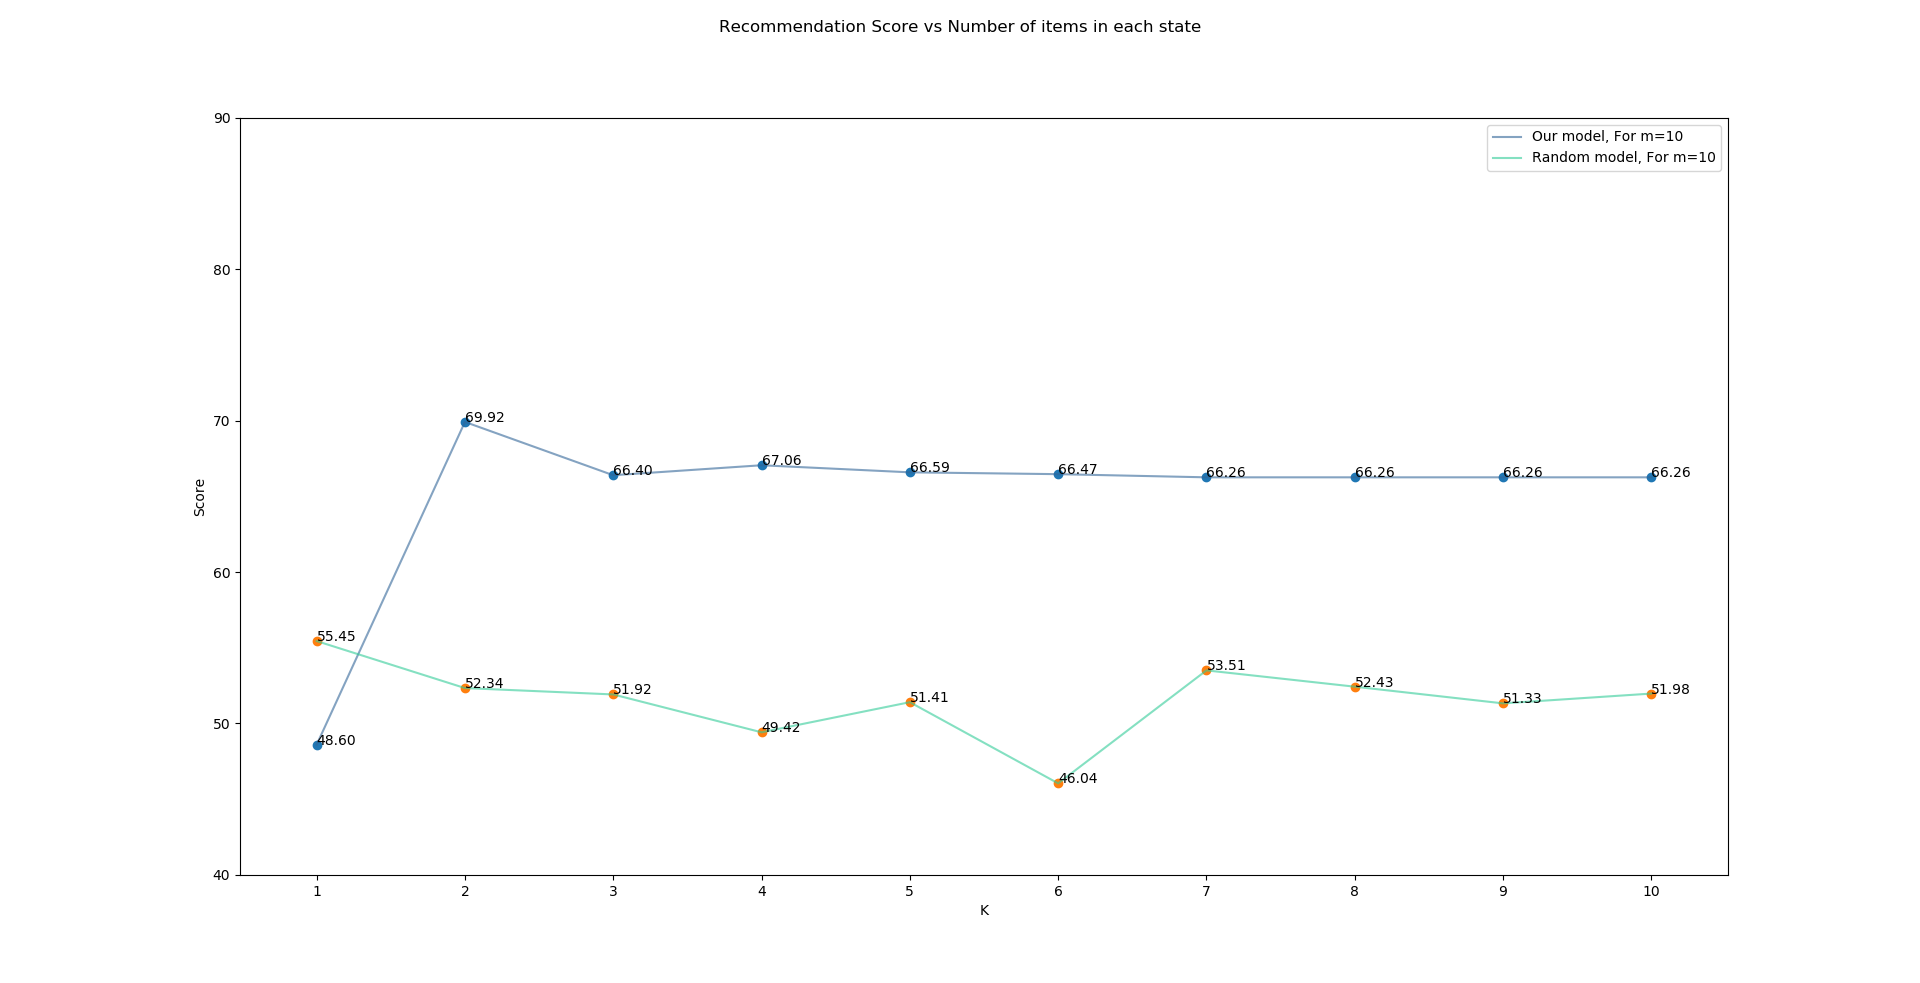
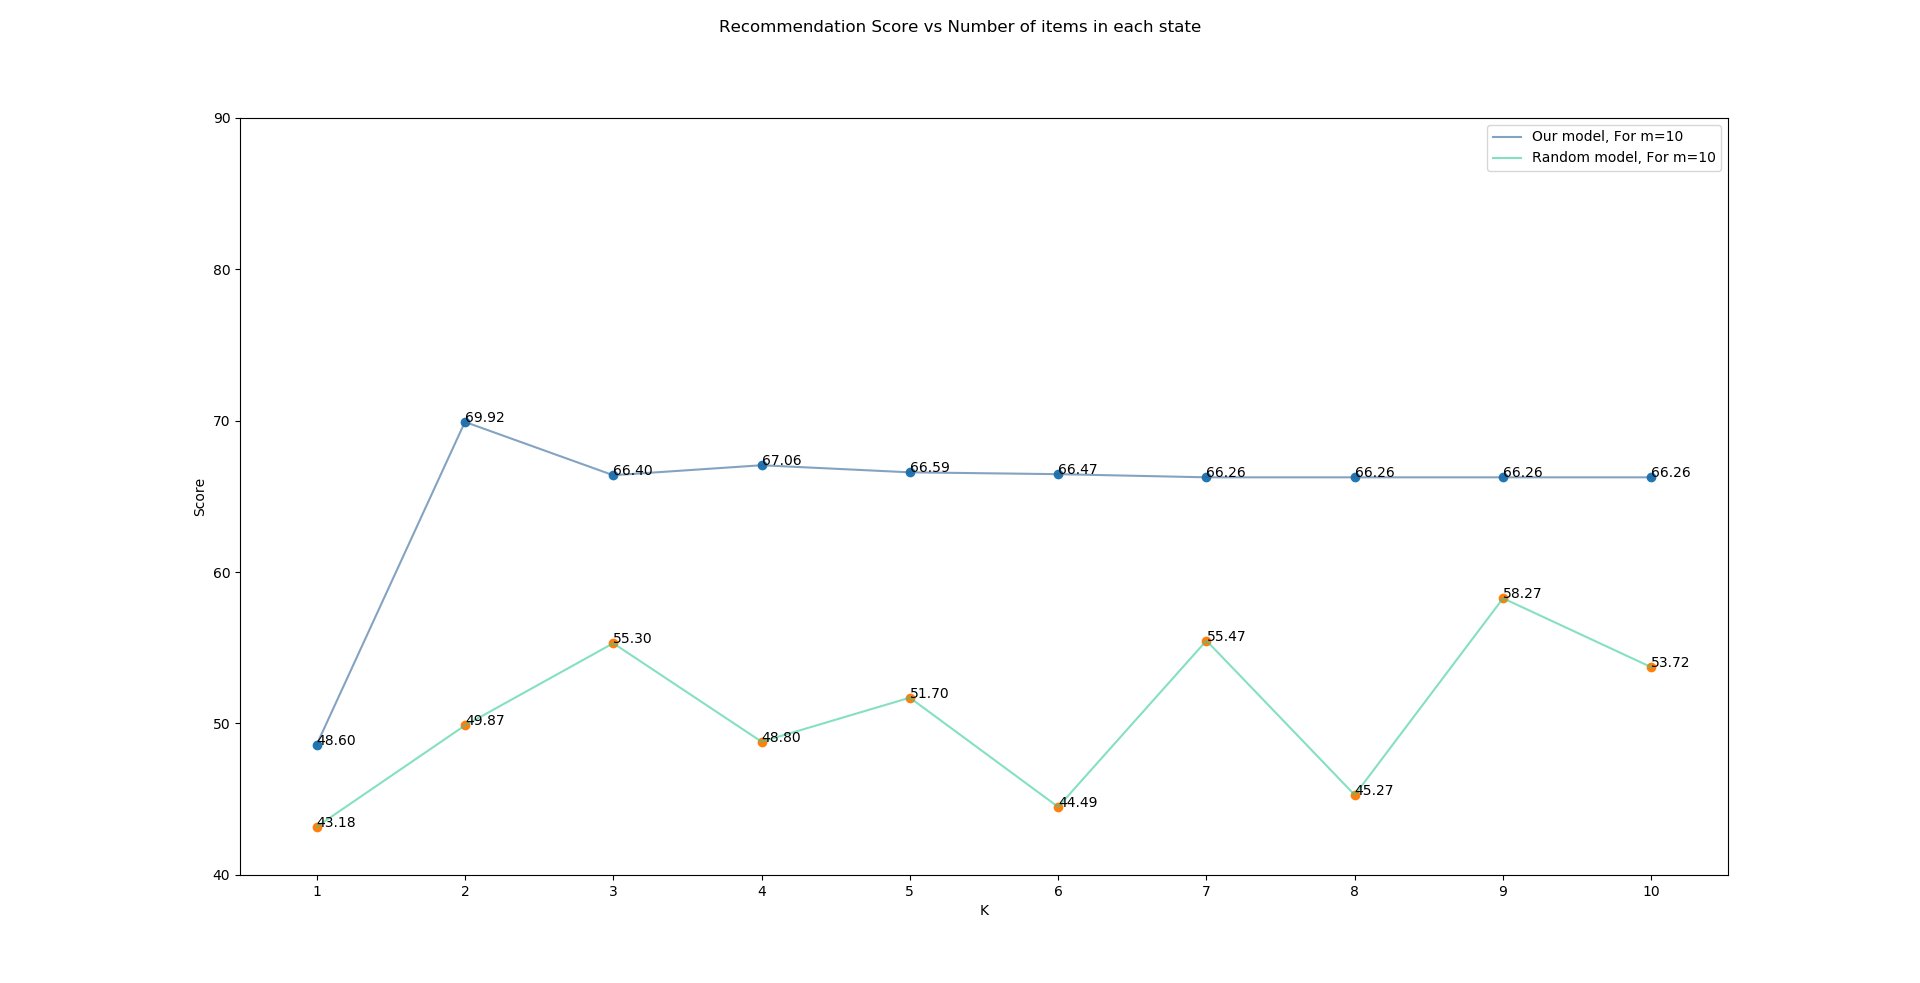
tweaked the evaluation a bit

diff --git a/graph_results.py b/graph_results.py
@@ -1,0 +1,93 @@
+from mdp import MDP
+import matplotlib.pyplot as plt
+
+
+def graph_recommendation_score(scale=10, m=10, with_comparison=False):
+    """
+    Function to generate a graph for the recommendation score over a range of k
+    :param scale: the limit to which k should vary
+    :param m: a parameter in recommendation score computation
+    :param with_comparison: plot a random policy's graph
+    :return: None
+    """
+
+    fig = plt.figure()
+    x = [i + 1 for i in range(scale)]
+    y_recommendation = []
+    y_recommendation_rand = []
+    for i in x:
+        rs = MDP(path='data-mini', k=i)
+
+        if with_comparison:
+            rs.initialise_mdp()
+            y_recommendation_rand.append(rs.evaluate_recommendation_score(m=m))
+
+        rs.load('mdp-model_k=' + str(i) + '.pkl')
+        y_recommendation.append(rs.evaluate_recommendation_score(m=m))
+
+    plt.plot(x, y_recommendation, color=(0.2, 0.4, 0.6, 0.6), label="Our model, For m=" + str(m))
+    plt.scatter(x, y_recommendation)
+
+    if with_comparison:
+        plt.plot(x, y_recommendation_rand, color=(0.2, 0.8, 0.6, 0.6), label="Random model, For m=" + str(m))
+        plt.scatter(x, y_recommendation_rand)
+
+    plt.xticks(x)
+    plt.yticks([i for i in range(40, 100, 10)])
+
+    for x1, y in zip(x, y_recommendation):
+        text = '%.2f' % y
+        plt.text(x1, y, text)
+
+    if with_comparison:
+        for x1, y in zip(x, y_recommendation_rand):
+            text = '%.2f' % y
+            plt.text(x1, y, text)
+
+    fig.suptitle('Recommendation Score vs Number of items in each state')
+    plt.xlabel('K')
+    plt.ylabel('Score')
+    plt.legend()
+    plt.show()
+
+
+def graph_decay_score(scale, rand=False):
+    """
+    Function to generate a graph for the exponential decay score over a range of k
+    :param scale: the limit to which k should vary
+    :param rand: to use a random policy or not
+    :return: None
+    """
+
+    fig = plt.figure()
+    x = [i + 1 for i in range(scale)]
+    y_decay = []
+    for i in x:
+        rs = MDP(path='data-mini', k=i)
+
+        if rand:
+            rs.initialise_mdp()
+            y_decay.append(rs.evaluate_decay_score())
+            continue
+
+        rs.load('mdp-model_k=' + str(i) + '.pkl')
+        y_decay.append(rs.evaluate_decay_score())
+
+    plt.bar(x, y_decay, width=0.5, color=(0.2, 0.4, 0.6, 0.6))
+    xlocs = [i + 1 for i in range(0, 10)]
+    for i, v in enumerate(y_decay):
+        plt.text(xlocs[i] - 0.46, v + 0.9, '%.2f' % v)
+
+    plt.xticks(x)
+    plt.yticks([i for i in range(0, 100, 10)])
+
+    fig.suptitle('Avg Exponential Decay Score vs Number of items in each state')
+    plt.xlabel('K')
+    plt.ylabel('Score')
+    plt.show()
+
+
+if __name__ == "__main__":
+    graph_decay_score(10, rand=False)
+    graph_decay_score(10, rand=True)
+    graph_recommendation_score(scale=10, m=10, with_comparison=True)

diff --git a/mdp.py b/mdp.py
@@ -223,10 +223,75 @@ class MDP:
 
         return rec_list
 
+    def evaluate_decay_score(self, alpha=10):
+        """
+        Method to evaluate the given MDP using exponential decay score
+        :param alpha: a parameter in exponential decay score
+        :return: the average score
+        """
 
-# if __name__ == '__main__':
-#     rs = MDP(path='data-mini')
-#     rs.initialise_mdp()
-#     rs.load('mdp-model_k=3.pkl')
-#     for user in rs.mdp_i.transactions:
-#         print(rs.recommend(user))
+        transactions = self.mdp_i.transactions.copy()
+
+        user_count = 0
+        total_score = 0
+        # Generating a testing for each test case
+        for user in transactions:
+            total_list = len(transactions[user])
+            if total_list == 1:
+                continue
+
+            score = 0
+            for i in range(1, total_list):
+                self.mdp_i.transactions[user] = transactions[user][:i]
+
+                rec_list = self.recommend(user)
+                rec_list = [rec[0] for rec in rec_list]
+                m = rec_list.index(self.mdp_i.games[transactions[user][i]]) + 1
+                score += 2 ** ((1 - m) / (alpha - 1))
+
+            score /= (total_list - 1)
+            total_score += 100 * score
+            user_count += 1
+
+        return total_score / user_count
+
+    def evaluate_recommendation_score(self, m=10):
+        """
+        Function to evaluate the given MDP using exponential decay score
+        :param m: a parameter in recommendation score score
+        :return: the average score
+        """
+
+        transactions = self.mdp_i.transactions.copy()
+
+        user_count = 0
+        total_score = 0
+        # Generating a testing for each test case
+        for user in transactions:
+            total_list = len(transactions[user])
+            if total_list == 1:
+                continue
+
+            item_count = 0
+            for i in range(1, total_list):
+                self.mdp_i.transactions[user] = transactions[user][:i]
+
+                rec_list = self.recommend(user)
+                rec_list = [rec[0] for rec in rec_list]
+                rank = rec_list.index(self.mdp_i.games[transactions[user][i]]) + 1
+                if rank <= m:
+                    item_count += 1
+
+            score = item_count / (total_list - 1)
+            total_score += 100 * score
+            user_count += 1
+
+        return total_score / user_count
+
+
+if __name__ == '__main__':
+    rs = MDP(path='data-mini')
+    rs.load('mdp-model_k=3.pkl')
+    print(rs.evaluate_recommendation_score())
+    # for u in rs.mdp_i.transactions:
+    #     print(rs.recommend(u))
